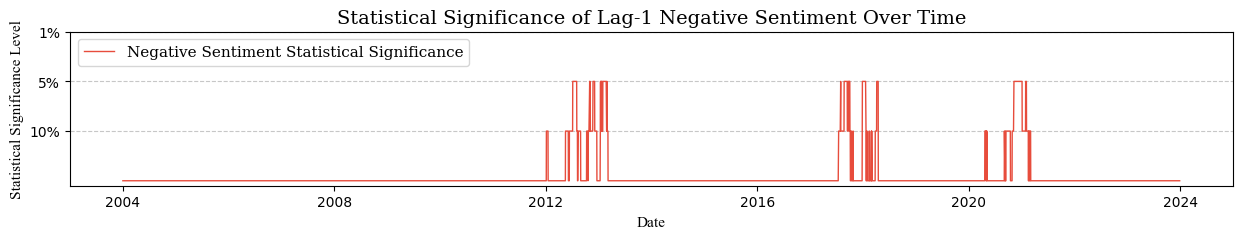
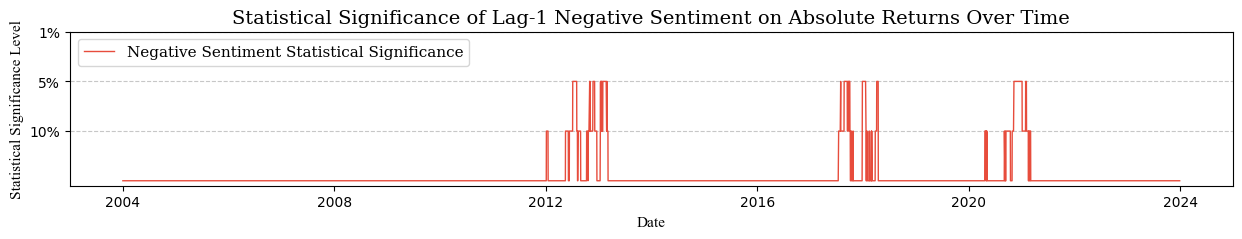
changed titles

Changed region(s): [[0.1836, 0.0293, 0.8567, 0.1172]]

diff --git a/Show_significance_time_series.py b/Show_significance_time_series.py
@@ -5,7 +5,7 @@ import matplotlib.dates as mdates
 import matplotlib.pyplot as plt
 
 # Load data
-df = pd.read_csv('Rolling_VAR_Results/Absolute_Returns_Rolling_VAR_T_Ratios.csv')
+df = pd.read_csv('Rolling_VAR_Results/Returns_Rolling_VAR_T_Ratios.csv')
 df = df[252:]
 df.set_index('obs', inplace=True)
 
@@ -58,7 +58,7 @@ plt.savefig('Plots/Abs_Returns_Positive_Sentiment_Coefficient.png', bbox_inches=
 # Plot data
 plt.figure(figsize=(15, 2))
 plt.plot(datetime_objs, pos_sentiment_significance, label='Positive Sentiment Statistical Significance', color='#2980b9', linewidth=1)
-plt.title('Statistical Significance of Lag-1 Positive Sentiment Over Time', fontsize=14, fontfamily='serif')
+plt.title('Statistical Significance of Lag-1 Positive Sentiment on Returns Over Time', fontsize=14, fontfamily='serif')
 plt.gca().xaxis.set_major_formatter(mdates.DateFormatter('%Y'))
 plt.legend(fontsize=11, loc='upper left', prop={'family': 'serif', 'size': 11})
 plt.xlabel('Date', fontsize=11, fontname='Times New Roman')
@@ -66,13 +66,13 @@ plt.ylabel('Statistical Significance Level', fontsize=11, fontname='Times New Ro
 plt.yticks([1, 2, 3], ['10%', '5%', '1%'])
 plt.grid(axis='y', linestyle='--', alpha=0.7)
 plt.tick_params(axis='both', which='major', labelsize=10)
-plt.savefig('Plots/Abs_Returns_Positive_Sentiment_Significance.png', bbox_inches='tight')
+plt.savefig('Plots/Returns_Positive_Sentiment_Significance.png', bbox_inches='tight')
 #plt.show()
 
 # Plot data
 plt.figure(figsize=(15, 2))
 plt.plot(datetime_objs, neg_sentiment_significance, label='Negative Sentiment Statistical Significance', color='#e74c3c', linewidth=1)
-plt.title('Statistical Significance of Lag-1 Negative Sentiment Over Time', fontsize=14, fontfamily='serif')
+plt.title('Statistical Significance of Lag-1 Negative Sentiment on Returns Over Time', fontsize=14, fontfamily='serif')
 plt.gca().xaxis.set_major_formatter(mdates.DateFormatter('%Y'))
 plt.legend(fontsize=11, loc='upper left', prop={'family': 'serif', 'size': 11})
 plt.xlabel('Date', fontsize=11, fontname='Times New Roman')
@@ -80,13 +80,13 @@ plt.ylabel('Statistical Significance Level', fontsize=11, fontname='Times New Ro
 plt.yticks([1, 2, 3], ['10%', '5%', '1%'])
 plt.grid(axis='y', linestyle='--', alpha=0.7)
 plt.tick_params(axis='both', which='major', labelsize=10)
-plt.savefig('Plots/Abs_Returns_Negative_Sentiment_Significance.png', bbox_inches='tight')
+plt.savefig('Plots/Returns_Negative_Sentiment_Significance.png', bbox_inches='tight')
 #plt.show()
 
 # Plot data
 plt.figure(figsize=(15, 2))
 plt.plot(datetime_objs, media_vol_significance, label='Article Count Statistical Significance', color='#27ae60', linewidth=1)
-plt.title('Statistical Significance of Lag-1 Article Count Over Time', fontsize=14, fontfamily='serif')
+plt.title('Statistical Significance of Lag-1 Article Count on Returns Over Time', fontsize=14, fontfamily='serif')
 plt.gca().xaxis.set_major_formatter(mdates.DateFormatter('%Y'))
 plt.legend(fontsize=11, loc='upper left', prop={'family': 'serif', 'size': 11})
 plt.xlabel('Date', fontsize=11, fontname='Times New Roman')
@@ -94,5 +94,5 @@ plt.ylabel('Statistical Significance Level', fontsize=11, fontname='Times New Ro
 plt.yticks([1, 2, 3], ['10%', '5%', '1%'])
 plt.grid(axis='y', linestyle='--', alpha=0.7)
 plt.tick_params(axis='both', which='major', labelsize=10)
-plt.savefig('Plots/Abs_Returns_Article_Count_Significance.png', bbox_inches='tight')
+plt.savefig('Plots/Returns_Article_Count_Significance.png', bbox_inches='tight')
 #plt.show()
